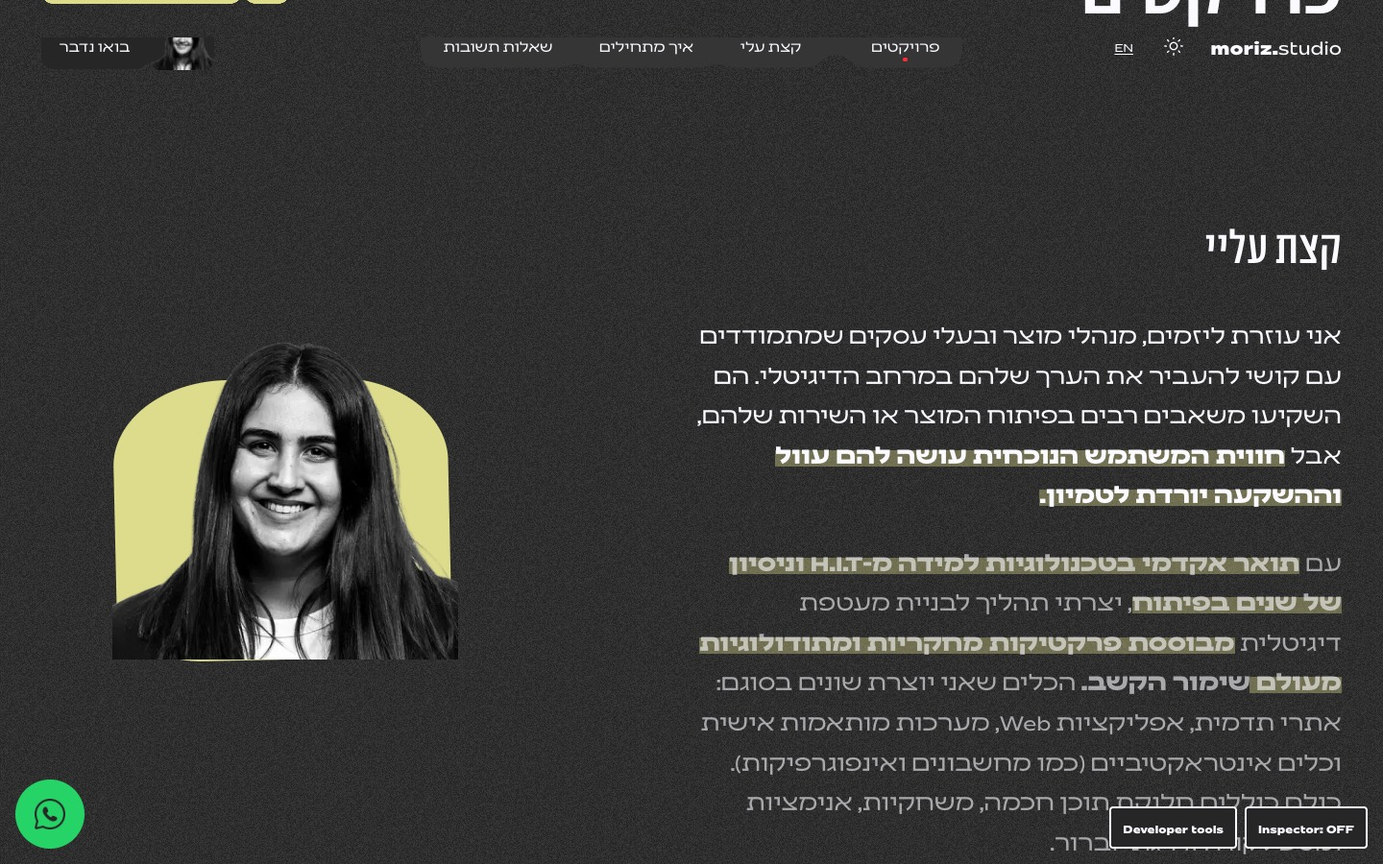
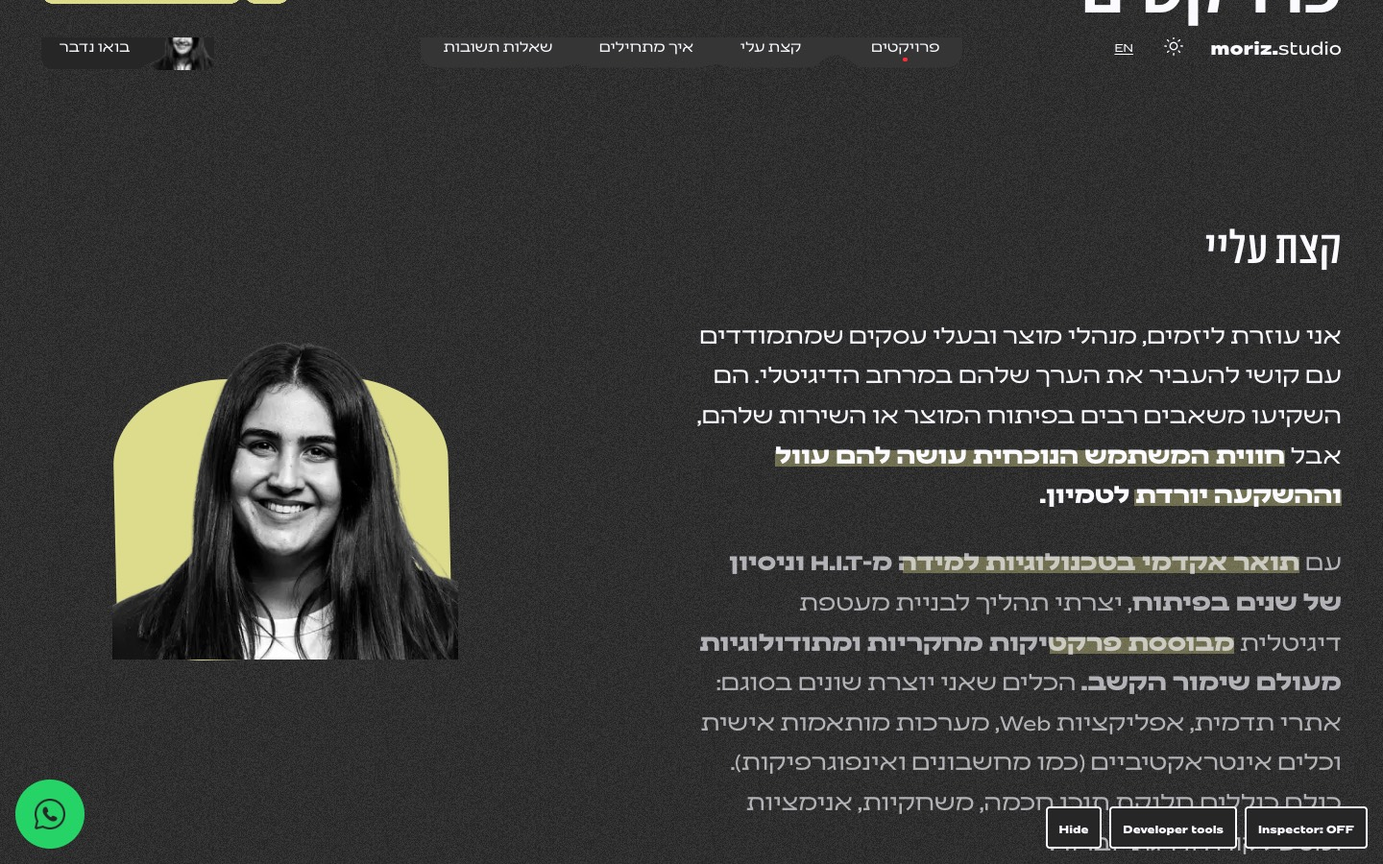
Refine About section and record its creative research
Hide the About heading on the homepage and tidy the AboutMe styles. Add
the creative About research report (reading focus and highlighter
direction) with refreshed trial screenshots, record the owner-supplied
biography and the decision in the docs, and log the pending
higher-resolution portrait in the backlog.

diff --git a/docs/research/about-me-creative-2026-10-10.html b/docs/research/about-me-creative-2026-10-10.html
@@ -1,0 +1,59 @@
+<!doctype html>
+<html lang="en">
+<head>
+<meta charset="utf-8"><meta name="viewport" content="width=device-width,initial-scale=1">
+<title>Creative About research</title>
+<style>
+:root{color-scheme:light;--ink:#262626;--paper:#fbfbff;--line:#d0d0d5;--muted:#55555b;--accent:#dddc8c;font-family:Arial,Helvetica,sans-serif;color:var(--ink);background:var(--paper)}
+*{box-sizing:border-box}body{margin:0;background:var(--paper)}main{max-width:1440px;margin:auto;padding:36px 40px 64px}a{color:inherit;text-underline-offset:4px}a:focus-visible{outline:3px solid var(--ink);outline-offset:5px}::selection{background:var(--accent)}
+.meta{display:flex;justify-content:space-between;gap:16px;color:var(--muted);font-size:14px;border-bottom:1px solid var(--line);padding-bottom:18px}
+h1{font-size:clamp(38px,5.6vw,80px);max-width:1000px;line-height:1.02;letter-spacing:-.035em;margin:32px 0 22px}h2{font-size:28px;line-height:1.2;margin:0 0 16px}h3{font-size:21px;margin:6px 0}
+.intro{font-size:18px;line-height:1.65;max-width:82ch}mark{background:linear-gradient(transparent 40%,var(--accent) 40% 92%,transparent 92%);color:inherit;font-weight:700}
+.rec{border-block:1px solid var(--ink);padding:26px 0 30px;margin:32px 0;display:grid;grid-template-columns:minmax(0,1fr) minmax(0,1fr);gap:32px}.rec li{line-height:1.6;margin:6px 0}
+.trial{display:grid;grid-template-columns:2fr 2fr 1fr;gap:16px;margin:16px 0 40px}.trial img{width:100%;border:1px solid var(--line)}
+.gallery{display:grid;grid-template-columns:repeat(3,minmax(0,1fr));gap:40px 28px}.ref{min-width:0;border-top:1px solid var(--ink);padding-top:14px}.ref img{width:100%;aspect-ratio:16/10;object-fit:cover;object-position:top;border:1px solid var(--line)}.ref p{font-size:15px;line-height:1.55;margin:8px 0}.src,.label{color:var(--muted);font-size:13px!important}.fit{background:var(--accent);padding:8px 10px}
+.method{font-size:14px;line-height:1.6;color:var(--muted);max-width:105ch;border-top:1px solid var(--line);margin-top:48px;padding-top:18px}
+@media (max-width:900px){main{padding:24px 16px 48px}.rec,.gallery{grid-template-columns:1fr}.trial{grid-template-columns:1fr}}
+@media (prefers-color-scheme:dark){:root:not([data-theme="light"]){color-scheme:dark;--ink:#fbfbff;--paper:#262626;--line:#4a4a4f;--muted:#c4c4c9}:root:not([data-theme="light"]) .fit,:root:not([data-theme="light"]) mark{color:#262626}}
+:root[data-theme="dark"]{color-scheme:dark;--ink:#fbfbff;--paper:#262626;--line:#4a4a4f;--muted:#c4c4c9}
+</style>
+</head>
+<body><main>
+<div class="meta"><span>Moriz Studio · homepage About (קצת עליי)</span><span>2026-10-10</span></div>
+<h1>Creative About me research</h1>
+<p class="intro">Owner request (2026-10-10): redesign the homepage About (קצת עליי) section, using the portrait from the בואו נדבר button and the supplied three-paragraph biography with its bold phrases kept; research inspiration for a creative About section, then build the strongest direction as a local trial. This adds a creative, interactive layer to the <a href="about-me-portfolios-2026-10-10.html">20 classic About references</a> captured earlier the same day.</p>
+<section class="rec" aria-labelledby="rec-h"><div><h2 id="rec-h">Recommended: קשב — the bio demonstrates the method it describes</h2><p class="intro">Scroll moves the reading focus through the three paragraphs, and each of the owner’s bold phrases receives a yellow highlighter stroke as it is read. The portrait cutout from the contact button sits on the brand-yellow shape and stays beside the text on desktop. <mark>Implemented as a local trial.</mark></p><ul><li>The copy claims methods from attention retention, gradual journeys and smart content division; the section shows them on her own words instead of describing them.</li><li>The owner’s bold phrases already mark what matters, so the interaction adds emphasis without new content or invented claims.</li><li>Text is never hidden: unfocused paragraphs keep at least 4.5:1 on the canvas (the large bold phrases at least 3:1 over the marker), and without JavaScript or with reduced motion every phrase is drawn.</li><li>One signature interaction, matching the owner’s ‘bold but readable’ choice; the yellow ties to the header avatar and the brand secondary colour.</li></ul></div>
+<div><h2>Alternatives</h2><ul><li><b>Portrait mask reveal.</b> The portrait opens from the yellow shape as the section enters (Sirnik-style reveal applied to the image). More cinematic, but it spends the interaction on the image rather than the message, and the current 600px portrait limits its scale.</li><li><b>Clickable personal items.</b> The owner’s backlog idea (2026-10-09). Deferred by the owner on 2026-10-10 until items and meanings are supplied; the layout leaves room beside the portrait.</li></ul><h2>Kept from the baseline report</h2><ul><li><b>Dennis Snellenberg</b>: Asymmetric portrait composition with a short client-facing paragraph.</li><li><b>Adham Dannaway</b>: Cutout portrait beside a compact bio.</li><li><b>Seán Halpin</b>: Distinctive portrait shape that makes the section feel warm.</li></ul></div></section>
+<h2>Local trial</h2><div class="trial"><img src="assets/about-me-creative-2026-10-10/trial-desk-light-2.jpg" alt="Local trial screenshot 1" loading="lazy">
+<img src="assets/about-me-creative-2026-10-10/trial-desk-dark-1.jpg" alt="Local trial screenshot 2" loading="lazy">
+<img src="assets/about-me-creative-2026-10-10/trial-mobile-1.jpg" alt="Local trial screenshot 3" loading="lazy"></div>
+<h2>References (9)</h2>
+<div class="gallery"><article class="ref"><a href="https://www.awwwards.com/inspiration/scroll-based-text-highlight-sol"><img src="assets/about-me-creative-2026-10-10/sol.jpg" alt="Capture of Sol (XKM Studio): Scroll-based text highlight" loading="lazy"></a>
+<p class="src">Awwwards element</p><h3><a href="https://www.awwwards.com/inspiration/scroll-based-text-highlight-sol">Sol (XKM Studio)</a></h3><p class="label">Scroll-based text highlight</p>
+<p>A long paragraph sits over a dark atmospheric portrait; words already read stay dim while the current sentence turns fully white. Tagged GSAP, scroll, highlight.</p><p><b>Takeaway.</b> Progressive emphasis turns reading into the interaction itself.</p><p class="fit"><b>Fit.</b> Primary mechanism reference. Moriz keeps every word readable and highlights only the owner’s bold phrases.</p></article>
+<article class="ref"><a href="https://www.awwwards.com/inspiration/highlight-benefit-on-scroll-eduard-bodak-portfolio"><img src="assets/about-me-creative-2026-10-10/bodak.jpg" alt="Capture of Eduard Bodak — Portfolio: Highlight benefit on scroll" loading="lazy"></a>
+<p class="src">Awwwards element</p><h3><a href="https://www.awwwards.com/inspiration/highlight-benefit-on-scroll-eduard-bodak-portfolio">Eduard Bodak — Portfolio</a></h3><p class="label">Highlight benefit on scroll</p>
+<p>A ruled list of benefits on black; the row at the reading line brightens while the others remain grey.</p><p><b>Takeaway.</b> A single active item at the eye line is enough focus; the rest can stay quietly legible.</p><p class="fit"><b>Fit.</b> Reference for paragraph-level focus on desktop.</p></article>
+<article class="ref"><a href="https://www.awwwards.com/inspiration/about-section-sirnik"><img src="assets/about-me-creative-2026-10-10/sirnik.jpg" alt="Capture of Sirnik: About section with text reveal" loading="lazy"></a>
+<p class="src">Awwwards element</p><h3><a href="https://www.awwwards.com/inspiration/about-section-sirnik">Sirnik</a></h3><p class="label">About section with text reveal</p>
+<p>A studio statement in large sans type on black, revealed line by line on scroll. Tagged scroll animation, text reveal, minimal.</p><p><b>Takeaway.</b> A studio-voice paragraph can carry an About section on typography and motion alone.</p><p class="fit"><b>Fit.</b> Supports a large reading size; the reveal itself is not used, so text never waits to appear.</p></article>
+<article class="ref"><a href="https://webflow.com/made-in-webflow/website/highlight-text-on-scroll"><img src="assets/about-me-creative-2026-10-10/webflow.jpg" alt="Capture of Nephew Media: Highlight text on scroll (Webflow clone)" loading="lazy"></a>
+<p class="src">Made in Webflow</p><h3><a href="https://webflow.com/made-in-webflow/website/highlight-text-on-scroll">Nephew Media</a></h3><p class="label">Highlight text on scroll (Webflow clone)</p>
+<p>Large grey paragraphs on black; the line at the centre of the viewport lights up as it is reached.</p><p><b>Takeaway.</b> Tie the effect to the viewport centre so it follows the visitor’s own pace.</p><p class="fit"><b>Fit.</b> Confirms the eye-line trigger used for the focus calculation.</p></article>
+<article class="ref"><a href="https://www.framer.com/marketplace/components/scroll-reveal-words/"><img src="assets/about-me-creative-2026-10-10/framer.jpg" alt="Capture of Scroll Reveal Words (Zeroqode): Sticky word highlight band" loading="lazy"></a>
+<p class="src">Framer Marketplace</p><h3><a href="https://www.framer.com/marketplace/components/scroll-reveal-words/">Scroll Reveal Words (Zeroqode)</a></h3><p class="label">Sticky word highlight band</p>
+<p>A sticky band where the current word lights up while the list scrolls past dimmed; includes a screen-reader fallback.</p><p><b>Takeaway.</b> Keep the full text available to assistive technology regardless of the visual state.</p><p class="fit"><b>Fit.</b> Accessibility reference; the Moriz text is ordinary DOM text in every state.</p></article>
+<article class="ref"><a href="https://www.awwwards.com/inspiration/about-me-section-regina-musi-portfolio-website"><img src="assets/about-me-creative-2026-10-10/regina.jpg" alt="Capture of Regina Musi: Editorial About me with numbered facts" loading="lazy"></a>
+<p class="src">Awwwards element</p><h3><a href="https://www.awwwards.com/inspiration/about-me-section-regina-musi-portfolio-website">Regina Musi</a></h3><p class="label">Editorial About me with numbered facts</p>
+<p>A large serif ‘About me’ heading, three numbered short statements (love, past experience, approach) and a black-and-white photograph framed by landscape.</p><p><b>Takeaway.</b> Short structured statements plus one honest photograph read as confident and personal.</p><p class="fit"><b>Fit.</b> Typographic confidence reference; Moriz keeps the owner’s continuous paragraphs.</p></article>
+<article class="ref"><a href="https://www.awwwards.com/inspiration/interaction-dongkyu-lee-work-overview-1"><img src="assets/about-me-creative-2026-10-10/dongkyu.jpg" alt="Capture of Dongkyu Lee: About as an interactive card" loading="lazy"></a>
+<p class="src">Awwwards element</p><h3><a href="https://www.awwwards.com/inspiration/interaction-dongkyu-lee-work-overview-1">Dongkyu Lee</a></h3><p class="label">About as an interactive card</p>
+<p>A calm card with columns (‘Hello, I’m Dongkyu’, ‘I design’, ‘Let’s connect’); secondary content fades in on interaction. Tagged interaction, transition, microinteraction.</p><p><b>Takeaway.</b> Microinteractions can stay small and still feel crafted.</p><p class="fit"><b>Fit.</b> Restraint reference: one interaction, done carefully.</p></article>
+<article class="ref"><a href="https://mobbin.com/sites/sections/cc46fe95-d2fb-46a6-927a-96c9bc6d5ecc"><img src="assets/about-me-creative-2026-10-10/freshman.jpg" alt="Capture of Freshman: Oversized name + small black-and-white portrait" loading="lazy"></a>
+<p class="src">Mobbin section</p><h3><a href="https://mobbin.com/sites/sections/cc46fe95-d2fb-46a6-927a-96c9bc6d5ecc">Freshman</a></h3><p class="label">Oversized name + small black-and-white portrait</p>
+<p>A huge mixed sans/serif name, one short line of positioning, and a small monochrome portrait below.</p><p><b>Takeaway.</b> A modest black-and-white portrait works when the typography carries the scale.</p><p class="fit"><b>Fit.</b> Supports keeping the 600px monochrome cutout at a moderate size.</p></article>
+<article class="ref"><a href="https://mobbin.com/sites/sections/8691b8cf-86d0-4134-b528-d806561b518b"><img src="assets/about-me-creative-2026-10-10/savor.jpg" alt="Capture of Savor: Large heading offset against a compact paragraph" loading="lazy"></a>
+<p class="src">Mobbin section</p><h3><a href="https://mobbin.com/sites/sections/8691b8cf-86d0-4134-b528-d806561b518b">Savor</a></h3><p class="label">Large heading offset against a compact paragraph</p>
+<p>A large serif ‘Who we are’ set against a narrow paragraph, with candid photographs below.</p><p><b>Takeaway.</b> Asymmetry between heading, text and image gives a restrained section presence.</p><p class="fit"><b>Fit.</b> Composition reference for the two-column split.</p></article></div>
+<p class="method"><b>Method.</b> Element pages captured headlessly in Chrome at 1440×900 on 2026-10-10 and visually inspected; Mobbin section previews downloaded from Mobbin. Some captures still show a cookie notice. Awwwards entries are video previews of a single element, so each description covers the captured frame and the element&#x27;s stated tags, not a full-site audit. Descriptions paraphrase; takeaways are design judgments. The 20 classic layouts in the baseline report are not repeated.</p>
+</main></body></html>

diff --git a/src/components/about-me.module.css b/src/components/about-me.module.css
@@ -5,25 +5,24 @@
   --about-progress: 1;
   /* Marker: full yellow under dark ink (dark theme below). */
   --about-marker: var(--color-secondary);
-  /* Unfocused paragraphs: lighter, still above 4.5:1 in both themes. */
-  --about-dim: color-mix(in srgb, var(--color-text-primary) 60%, transparent);
+  /* Unfocused paragraphs: 65% is the lightest that keeps 4.5:1 on the light
+     canvas; the large bold phrases stay above 3:1 over the marker. */
+  --about-dim: color-mix(in srgb, var(--color-text-primary) 65%, transparent);
   display: grid;
   gap: var(--space-10);
   align-items: start;
 }
 
 /* Light ink in the dark theme reads over a translucent wash instead. */
+/* biome-ignore lint/correctness/noUnknownPseudoClass: CSS Modules global scope */
 :global(:root[data-theme="dark"]) .root {
   --about-marker: color-mix(in srgb, var(--color-secondary) 38%, transparent);
 }
 
 @media (prefers-color-scheme: dark) {
+  /* biome-ignore lint/correctness/noUnknownPseudoClass: CSS Modules global scope */
   :global(:root:not([data-theme="light"])) .root {
-    --about-marker: color-mix(
-      in srgb,
-      var(--color-secondary) 38%,
-      transparent
-    );
+    --about-marker: color-mix(in srgb, var(--color-secondary) 38%, transparent);
   }
 }
 
@@ -32,7 +31,7 @@
   gap: 1.1em;
   min-inline-size: 0;
   max-inline-size: 42rem;
-  font-size: clamp(1.25rem, 1.05rem + 0.75vw, 1.625rem);
+  font-size: clamp(1.0625rem, 0.95rem + 0.4vw, 1.25rem);
   line-height: 1.6;
 }
 

diff --git a/src/app/[locale]/page.tsx b/src/app/[locale]/page.tsx
@@ -172,7 +172,7 @@ export default async function Home({
           partyReaction
         />
 
-        <Section id="about" title={content.about.heading}>
+        <Section id="about" title={content.about.heading} showHeading={false}>
           <AboutMe content={content.about} />
         </Section>
 

diff --git a/docs/research/about-me-creative-2026-10-10.md b/docs/research/about-me-creative-2026-10-10.md
@@ -1,0 +1,45 @@
+# Creative About me research for the homepage
+
+Research date: 10 October 2026. Owner request (2026-10-10): redesign the homepage About (קצת עליי) section, using the portrait from the בואו נדבר button and the supplied three-paragraph biography with its bold phrases kept; research inspiration for a creative About section, then build the strongest direction as a local trial.
+
+**Recommendation: קשב — the bio demonstrates the method it describes.** Scroll moves the reading focus through the three paragraphs, and each of the owner’s bold phrases receives a yellow highlighter stroke as it is read. The portrait cutout from the contact button sits on the brand-yellow shape and stays beside the text on desktop. It is implemented as a local trial for visual acceptance.
+
+This report adds a creative and interactive layer to the [20 classic About references](about-me-portfolios-2026-10-10.html) captured earlier the same day; those layouts are not repeated.
+
+## Why this direction
+
+- The copy claims methods from attention retention, gradual journeys and smart content division; the section shows them on her own words instead of describing them.
+- The owner’s bold phrases already mark what matters, so the interaction adds emphasis without new content or invented claims.
+- Text is never hidden: unfocused paragraphs keep at least 4.5:1 on the canvas (the large bold phrases at least 3:1 over the marker), and without JavaScript or with reduced motion every phrase is drawn.
+- One signature interaction, matching the owner’s ‘bold but readable’ choice; the yellow ties to the header avatar and the brand secondary colour.
+
+## Alternatives
+
+- **Portrait mask reveal.** The portrait opens from the yellow shape as the section enters (Sirnik-style reveal applied to the image). More cinematic, but it spends the interaction on the image rather than the message, and the current 600px portrait limits its scale.
+- **Clickable personal items.** The owner’s backlog idea (2026-10-09). Deferred by the owner on 2026-10-10 until items and meanings are supplied; the layout leaves room beside the portrait.
+
+## References
+
+| Reference | Pattern | Observed | Takeaway | Fit for Moriz |
+| --- | --- | --- | --- | --- |
+| [Sol (XKM Studio)](https://www.awwwards.com/inspiration/scroll-based-text-highlight-sol) ([capture](assets/about-me-creative-2026-10-10/sol.jpg)) | Scroll-based text highlight | A long paragraph sits over a dark atmospheric portrait; words already read stay dim while the current sentence turns fully white. Tagged GSAP, scroll, highlight. | Progressive emphasis turns reading into the interaction itself. | Primary mechanism reference. Moriz keeps every word readable and highlights only the owner’s bold phrases. |
+| [Eduard Bodak — Portfolio](https://www.awwwards.com/inspiration/highlight-benefit-on-scroll-eduard-bodak-portfolio) ([capture](assets/about-me-creative-2026-10-10/bodak.jpg)) | Highlight benefit on scroll | A ruled list of benefits on black; the row at the reading line brightens while the others remain grey. | A single active item at the eye line is enough focus; the rest can stay quietly legible. | Reference for paragraph-level focus on desktop. |
+| [Sirnik](https://www.awwwards.com/inspiration/about-section-sirnik) ([capture](assets/about-me-creative-2026-10-10/sirnik.jpg)) | About section with text reveal | A studio statement in large sans type on black, revealed line by line on scroll. Tagged scroll animation, text reveal, minimal. | A studio-voice paragraph can carry an About section on typography and motion alone. | Supports a large reading size; the reveal itself is not used, so text never waits to appear. |
+| [Nephew Media](https://webflow.com/made-in-webflow/website/highlight-text-on-scroll) ([capture](assets/about-me-creative-2026-10-10/webflow.jpg)) | Highlight text on scroll (Webflow clone) | Large grey paragraphs on black; the line at the centre of the viewport lights up as it is reached. | Tie the effect to the viewport centre so it follows the visitor’s own pace. | Confirms the eye-line trigger used for the focus calculation. |
+| [Scroll Reveal Words (Zeroqode)](https://www.framer.com/marketplace/components/scroll-reveal-words/) ([capture](assets/about-me-creative-2026-10-10/framer.jpg)) | Sticky word highlight band | A sticky band where the current word lights up while the list scrolls past dimmed; includes a screen-reader fallback. | Keep the full text available to assistive technology regardless of the visual state. | Accessibility reference; the Moriz text is ordinary DOM text in every state. |
+| [Regina Musi](https://www.awwwards.com/inspiration/about-me-section-regina-musi-portfolio-website) ([capture](assets/about-me-creative-2026-10-10/regina.jpg)) | Editorial About me with numbered facts | A large serif ‘About me’ heading, three numbered short statements (love, past experience, approach) and a black-and-white photograph framed by landscape. | Short structured statements plus one honest photograph read as confident and personal. | Typographic confidence reference; Moriz keeps the owner’s continuous paragraphs. |
+| [Dongkyu Lee](https://www.awwwards.com/inspiration/interaction-dongkyu-lee-work-overview-1) ([capture](assets/about-me-creative-2026-10-10/dongkyu.jpg)) | About as an interactive card | A calm card with columns (‘Hello, I’m Dongkyu’, ‘I design’, ‘Let’s connect’); secondary content fades in on interaction. Tagged interaction, transition, microinteraction. | Microinteractions can stay small and still feel crafted. | Restraint reference: one interaction, done carefully. |
+| [Freshman](https://mobbin.com/sites/sections/cc46fe95-d2fb-46a6-927a-96c9bc6d5ecc) ([capture](assets/about-me-creative-2026-10-10/freshman.jpg)) | Oversized name + small black-and-white portrait | A huge mixed sans/serif name, one short line of positioning, and a small monochrome portrait below. | A modest black-and-white portrait works when the typography carries the scale. | Supports keeping the 600px monochrome cutout at a moderate size. |
+| [Savor](https://mobbin.com/sites/sections/8691b8cf-86d0-4134-b528-d806561b518b) ([capture](assets/about-me-creative-2026-10-10/savor.jpg)) | Large heading offset against a compact paragraph | A large serif ‘Who we are’ set against a narrow paragraph, with candid photographs below. | Asymmetry between heading, text and image gives a restrained section presence. | Composition reference for the two-column split. |
+
+From the baseline report: **Dennis Snellenberg**, asymmetric portrait composition with a short client-facing paragraph.; **Adham Dannaway**, cutout portrait beside a compact bio.; **Seán Halpin**, distinctive portrait shape that makes the section feel warm.
+
+## Trial
+
+Screenshots of the local trial: [trial-desk-light-2.jpg](assets/about-me-creative-2026-10-10/trial-desk-light-2.jpg), [trial-desk-dark-1.jpg](assets/about-me-creative-2026-10-10/trial-desk-dark-1.jpg), [trial-mobile-1.jpg](assets/about-me-creative-2026-10-10/trial-mobile-1.jpg).
+
+Files: [about-me.tsx](../../src/components/about-me.tsx), [about-me.module.css](../../src/components/about-me.module.css), [he.ts](../../src/i18n/dictionaries/he.ts), [about-me.spec.ts](../../tests/navigation/about-me.spec.ts).
+
+## Method
+
+Element pages captured headlessly in Chrome at 1440×900 on 2026-10-10 and visually inspected; Mobbin section previews downloaded from Mobbin. Some captures still show a cookie notice. Awwwards entries are video previews of a single element, so each description covers the captured frame and the element's stated tags, not a full-site audit. Descriptions paraphrase; takeaways are design judgments. The 20 classic layouts in the baseline report are not repeated.

diff --git a/docs/14-decisions.md b/docs/14-decisions.md
@@ -1265,6 +1265,14 @@ Implement section 6 with [GettingStarted](../src/components/getting-started.tsx)
 
 Alternatives considered: editorial ruled rows (reads as a list) and equal cards (generic and heavier). Evidence: [getting-started Mobbin research](research/homepage-getting-started-mobbin-2026-10-10.md). Implemented locally; lint and TypeScript pass, and the navigation suite passes apart from three Projects-backdrop and theme-opening failures that also occur with this section removed. The lines for steps 2 and 3 and the shortened step 2 title (**שיחת אפיון**, was **שיחת אפיון מעמיקה**) are drafts awaiting owner approval; visual acceptance remains pending. Owner follow-up the same day: larger Danidin step numbers, no border around the icons and larger icons (2.75rem), and no fine-print chips at all. The facts move into the step lines (Zoom and free of charge in step 2, valid for 14 working days in step 3); the 5–10 minute phone length is no longer shown.
 
+### About section: reading focus and highlighter
+
+Date: 2026-10-10. The owner supplied the About biography (three paragraphs, with bold phrases marked in a screenshot of the current site) and asked for a creative redesign using the portrait from the **בואו נדבר** button, preceded by inspiration research. Owner choices: build the strongest direction as a local trial; "bold but readable" with one signature interaction; clickable personal items stay in the backlog; a higher-resolution portrait will follow.
+
+Implement section 4 with [AboutMe](../src/components/about-me.tsx). The biography sits on the start side in a large Leon reading size, and the contact-button cutout (`/images/mor-avatar-cutout.webp`) sits on the end side over the brand-yellow rounded shape from the avatar, sticky on desktop and above the text below 64rem. As the visitor scrolls, the paragraph nearest the eye line stays at full ink while the others drop to 65% ink (desktop only; at least 4.5:1 on the canvas, and the large bold phrases stay at least 3:1 over the marker), and each of the owner's four bold phrases receives a yellow highlighter stroke that draws from the right and stays drawn; in the dark theme the stroke is a translucent wash under light ink. The yellow shape settles slightly (scale and rotation) as the section enters; the person does not move. Without JavaScript or with reduced motion every phrase is marked and nothing is dimmed. The about-page link placeholder is unchanged.
+
+Copy lives in `about.paragraphs` as verbatim segments, with `strong` marking the bold phrases; the portrait path, size and alt text sit in `about.portrait` so the larger file is a one-line swap. Alternatives considered: a portrait mask reveal, and the deferred personal-items idea. Evidence: [creative About research](research/about-me-creative-2026-10-10.md), building on the [classic About references](research/about-me-portfolios-2026-10-10.html). Implemented locally; lint, TypeScript and the About spec pass, and the navigation suite's remaining failures are the Projects-backdrop and theme-opening failures already recorded in [the getting-started entry](#getting-started-steps-on-a-rail). Owner follow-up the same day: smaller body text (`clamp(1.0625rem, 0.95rem + 0.4vw, 1.25rem)`) and no visible heading; as with testimonials, **קצת עליי** remains the section's `aria-label`. Owner checks pending: the bold spans read from the screenshot, visual acceptance and the higher-resolution portrait.
+
 ## Reusable decision template
 
 

diff --git a/docs/03-content.md b/docs/03-content.md
@@ -98,6 +98,16 @@ Questions: TODO: Decision required
 
 Answers and final website wording: TODO: Decision required
 
+### About (קצת עליי) — homepage biography
+
+Supplied verbatim by the owner on 2026-10-10. Bold phrases (shown in bold) were read from her screenshot of the current site and await confirmation. Source of truth in code: `about.paragraphs` in the [Hebrew dictionary](../src/i18n/dictionaries/he.ts); presentation in [the decision](14-decisions.md#about-section-reading-focus-and-highlighter). Image: the cutout portrait from the header contact button until a higher-resolution file is supplied.
+
+אני עוזרת ליזמים, מנהלי מוצר ובעלי עסקים שמתמודדים עם קושי להעביר את הערך שלהם במרחב הדיגיטלי. הם השקיעו משאבים רבים בפיתוח המוצר או השירות שלהם, אבל **חווית המשתמש הנוכחית עושה להם עוול וההשקעה יורדת לטמיון.**
+
+עם **תואר אקדמי בטכנולוגיות למידה מ-H.I.T וניסיון של שנים בפיתוח**, יצרתי תהליך לבניית מעטפת דיגיטלית **מבוססת פרקטיקות מחקריות ומתודולוגיות מעולם שימור הקשב.** הכלים שאני יוצרת שונים בסוגם: אתרי תדמית, אפליקציות Web, מערכות מותאמות אישית וכלים אינטראקטיביים (כמו מחשבונים ואינפוגרפיקות). כולם כוללים חלוקת תוכן חכמה, משחקיות, אנימציות ומסע לקוח הדרגתי וברור.
+
+**בסוף התהליך, הלקוחות שלי מצוידים בכלים דיגיטליים שעוזרים לקהל שלהם לעשות יותר עם פחות מאמץ, ומשיגים את המטרות העסקיות שלהם.**
+
 ### Headlines
 
 Hero H1 — agreed, supplied by the owner on 2026-10-06; preserved verbatim:

diff --git a/docs/homepage-workbook.md b/docs/homepage-workbook.md
@@ -259,7 +259,7 @@ Does the rendered section/page layout receive owner visual acceptance? Which pro
 
 ## 4. Brief owner introduction
 
-Status: **Not started**.
+Status: **In progress** — local trial, 2026-10-10.
 
 ### Purpose and information
 
@@ -271,11 +271,11 @@ Reference review pending: [Mother Design introduction](research/mobbin-homepage-
 
 ### Agreed choices
 
-Section inclusion and position 4 confirmed. Content, voice, image and layout: TODO: Decision required.
+Section inclusion and position 4 confirmed. Owner-supplied biography (three paragraphs, bold phrases kept) and the contact-button portrait, presented as a reading-focus and highlighter trial; see [the decision](14-decisions.md#about-section-reading-focus-and-highlighter) and [the creative research](research/about-me-creative-2026-10-10.md). Visual acceptance: pending.
 
 ### Remaining questions
 
-Which personal facts and name should appear? Is a portrait appropriate and available? Should there be an About link?
+Are the bold spans correct as read from the screenshot? When will the higher-resolution portrait arrive? Should there be an About link? (Placeholder kept.)
 
 ## 5. Client testimonials
 

diff --git a/docs/15-general-backlog.md b/docs/15-general-backlog.md
@@ -4,6 +4,7 @@ Use this document for ideas and tasks that should not interrupt the current stag
 
 ## UX
 
+- [ ] About section: replace the 600×600 portrait with the higher-resolution file the owner will supply (change `about.portrait` in the Hebrew dictionary). Recorded 2026-10-10.
 - [ ] About section: add clickable personal items, with each click revealing what the item symbolizes for Moriz. Item selection and personal meanings to be supplied by the owner. Requested on 2026-10-09 for the task list only; implementation deferred until explicitly requested.
 - [ ] TODO: Decision required
 
